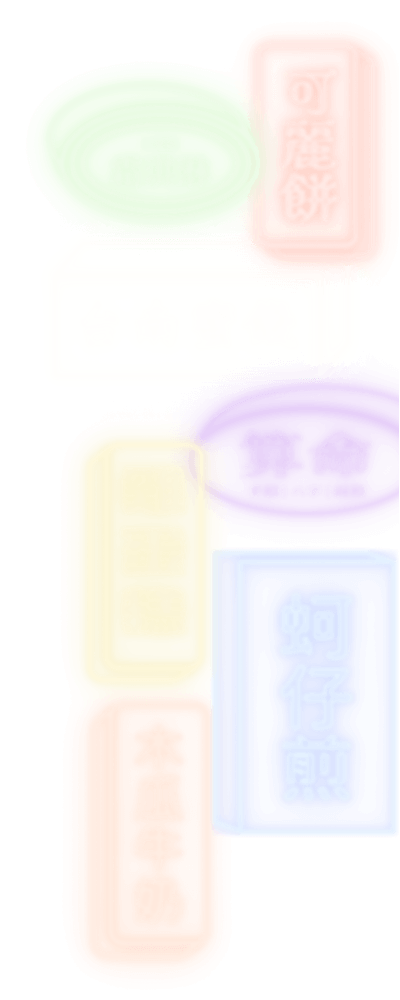
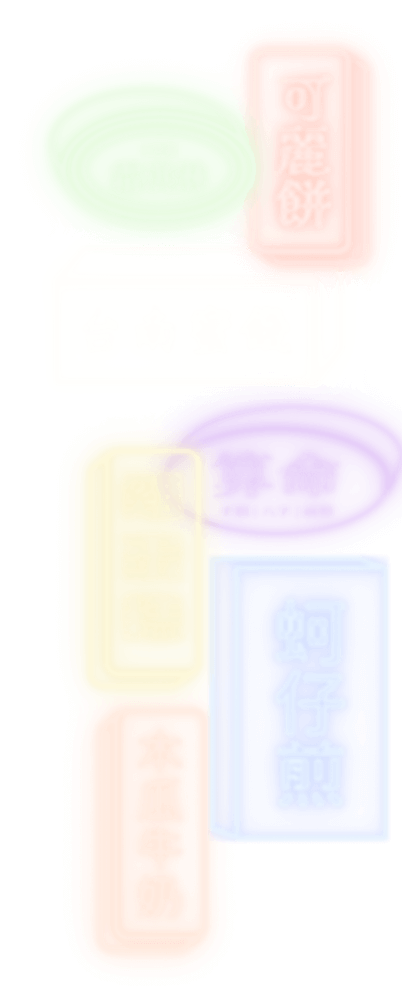
官方活動RWD製作中

diff --git a/css/style-amy.css b/css/style-amy.css
@@ -888,7 +888,7 @@
     right: 2%;
 }
 
-#current-events .swiper-btn-next:hover  {
+#current-events .swiper-btn-next:hover {
     animation: moveRightAndLeft 0.6s ease-in-out infinite;
 }
 
@@ -1128,7 +1128,7 @@
     left: 2%;
 }
 
-#upcoming-events .swiper-btn-pre:hover  {
+#upcoming-events .swiper-btn-pre:hover {
     animation: moveLeftAndRight 0.6s ease-in-out infinite;
 }
 
@@ -1136,7 +1136,7 @@
     right: 2%;
 }
 
-#upcoming-events .swiper-btn-next:hover  {
+#upcoming-events .swiper-btn-next:hover {
     animation: moveRightAndLeft 0.6s ease-in-out infinite;
 }
 
@@ -1274,33 +1274,81 @@
     overflow: hidden;
 }
 
-#officialEvent-introduce article {
-    position: relative;
-    padding: 2%;
-    margin-top: 25px;
-    margin-left: 20%;
-    width: 100%;
-    min-width: 1000px;
+#officialEvent-introduce {
+    margin-top: 50px;
 }
 
-#officialEvent-introduce article p {
-    position: absolute;
-    top: 2%;
-    width: 50%;
-    margin: 7%;
+#officialEvent-introduce .content {
+    background-image: url(../images/official/smoke.svg);
+    background-repeat: no-repeat;
+    background-size: contain;
+    background-position: center;
+
+    padding-top: 8%;
+    padding-left: 18%;
+
+    width: 100%;
+    aspect-ratio: 3/1;
+    min-width: 300px;
+}
+
+#officialEvent-introduce .content p {
+    width: 65%;
     text-align: center;
     letter-spacing: 0.1rem;
+}
+
+@media (max-width:1280px) {
+    #officialEvent-introduce .content {
+        background-position: right;
+
+        padding-top: 8%;
+        padding-left: 18%;
+
+        width: 100%;
+        aspect-ratio: 3/1;
+        min-width: 300px;
+    }
+
+    #officialEvent-introduce .content p {
+        width: 75%;
+    }
+}
+
+@media (max-width:860px) {
+    #officialEvent-introduce .content {
+        background-image: none;
+        padding-left: 22%;
+    }
+
+    #officialEvent-introduce .content p {
+        width: 70%;
+        text-align: left;
+    }
+}
+
+@media (max-width: 430px) {
+    #officialEvent-introduce .content {
+        background-image: none;
+        padding: 0;
+    }
+
+    #officialEvent-introduce .content p {
+        width: 80%;
+        margin: 0 auto;
+    }
 }
 
 /* 活動步驟 */
 #officialEvent-content {
     width: 50%;
-    margin-top: -20%;
+    margin-top: -3%;
 }
 
 #officialEvent-content .title {
     width: 40%;
-    margin: 0 auto 20px auto;
+    min-width: 250px;
+    margin: 0 auto 30px auto;
 }
 
 .steps ul {
@@ -1335,6 +1383,39 @@
     border: 2px solid var(--event-red);
 }
 
+@media (max-width:1440px) {
+    #officialEvent-content {
+        width: 55%;
+    }
+}
+
+@media (max-width:860px) {
+    #officialEvent-content {
+        width: 75%;
+        margin-top: -5%;
+    }
+
+    .steps ul li figure {
+        min-width: 300px;
+    }
+}
+
+@media (max-width: 430px) {
+    #officialEvent-content {
+        width: 80%;
+        margin-top: -6%;
+    }
+
+    .steps ul li {
+        flex-wrap: wrap;
+        gap: 20px;
+    }
+
+    .steps ul li .content {
+        margin-left: 0;
+    }
+}
+
 /* 活動步驟-列表線條 */
 .steps figure {
     position: relative;
@@ -1364,6 +1445,26 @@
     border-radius: 50%;
 }
 
+@media (max-width:860px) {
+    .steps figure::before {
+        content: '';
+        position: absolute;
+        top: 50%;
+        left: 112%;
+        height: 140%;
+        border-right: 2px solid var(--event-red);
+        margin: 0 auto;
+    }
+}
+
+@media (max-width: 430px) {
+
+    .steps figure::before,
+    .steps figure::after {
+        display: none;
+    }
+}
+
 /* 活動指定目標 */
 #officialEvent-target {
     display: flex;
@@ -1374,8 +1475,15 @@
     margin-top: 12%;
 }
 
+#officialEvent-target .title {
+    width: 25%;
+    min-width: 250px;
+}
+
 #officialEvent-target p {
+    font-size: 1.2rem;
     line-height: 2rem;
+    margin-bottom: 10px;
 }
 
 #officialEvent-target ul {
@@ -1393,6 +1501,24 @@
     margin: 0 5px;
 }
 
+
+@media (max-width: 430px) {
+    #officialEvent-target ul {
+        width: 80%;
+    }
+
+    #officialEvent-target ul li {
+        flex-wrap: wrap;
+        justify-content: flex-start;
+        margin-bottom: 10px;
+    }
+
+    #officialEvent-target p {
+        font-size: 12px;
+        line-height: 1.5rem;
+    }
+}
+
 /* 加入活動 */
 #officialEvent-join {
     position: relative;
@@ -1402,8 +1528,8 @@
     justify-content: center;
     align-items: center;
 
-    width: 100%;
-    height: 150vh;
+    width: 80%;
+    aspect-ratio: 1/1;
 
     background-image: url(../images/official/bowl.png);
     background-repeat: no-repeat;
@@ -1434,26 +1560,35 @@
     background-color: aliceblue;
 }
 
+@media (max-width:860px) {
+    #officialEvent-join {
+        width: 150%;
+    }
+}
+
 /* 左右兩側招牌裝飾 */
-.shop-sign-left {
+.shop-sign-left,
+.shop-sign-right {
     position: absolute;
     top: 360px;
-    width: 400px;
-    height: 1000px;
-    background-image: url(../images/official/shop-sign-left.png);
+
+    width: 20%;
+    min-width: 150px;
+    aspect-ratio: 7/18;
+
     background-size: contain;
     background-repeat: no-repeat;
 }
 
+.shop-sign-left {
+    background-image: url(../images/official/shop-sign-left.png);
+    background-position: left;
+}
+
 .shop-sign-right {
-    position: absolute;
-    top: 360px;
     right: 0;
-    width: 400px;
-    height: 1000px;
+
     background-image: url(../images/official/shop-sign-right.png);
-    background-size: contain;
-    background-repeat: no-repeat;
     background-position: right;
 }
 

diff --git a/officialEvent.html b/officialEvent.html
@@ -13,17 +13,17 @@
 <body id="officialEvent-body">
     <main id="officialEvent">
         <section id="officialEvent-banner">
-            <figure class="banner">
+            <picture class="banner">
+                <source media="(max-width: 860px)" srcset="./images/official/banner-820.png" />
                 <img src="./images/official/banner.png" alt="台北夜市美食地圖">
-            </figure>
+            </picture>
             <div class="shop-sign-left"></div>
             <div class="shop-sign-right"></div>
         </section>
         <section id="officialEvent-introduce">
-            <article>
-                <img src="./images/official/smoke.png" alt="">
+            <div class="content">
                 <p>親愛的美食愛好者們，8月的精彩活動不容錯過！我們邀請你們參加我們為期一個月的台北夜市美食地圖集點活動，來一場味蕾的冒險吧！</p>
-            </article>
+            </div>
         </section>
         <section id="officialEvent-content">
             <figure class="title">
@@ -60,12 +60,12 @@
                 <li>
                     <p>鹽酥雞</p>
                     <img src="./images/official/star.png" alt="">
-                    <p>台灣經典的小吃，外酥內嫩的炸雞塊。</p>
+                    <p>外酥內嫩的炸雞塊，加上香料與九層塔，美味無比。</p>
                 </li>
                 <li>
                     <p>大腸包小腸</p>
                     <img src="./images/official/star.png" alt="">
-                    <p>台灣獨特的街頭小吃，將香腸包在米腸內，口感豐富。</p>
+                    <p>台灣獨特的小吃，將香腸包在米腸內，口感豐富。</p>
                 </li>
                 <li>
                     <p>蚵仔煎</p>
@@ -75,12 +75,12 @@
                 <li>
                     <p>珍珠奶茶</p>
                     <img src="./images/official/star.png" alt="">
-                    <p>混合了紅茶、牛奶和珍珠的甜飲，是夜市必試的飲品。</p>
+                    <p>混合了紅茶、牛奶和珍珠，是夜市必試的飲品。</p>
                 </li>
                 <li>
                     <p>臭豆腐</p>
                     <img src="./images/official/star.png" alt="">
-                    <p>獨特的發酵豆腐，外脆內嫩，搭配酸菜更美味。</p>
+                    <p>獨特的發酵豆腐，外脆內嫩，搭配酸菜更加美味。</p>
                 </li>
             </ul>
         </section>

diff --git a/js/ShopSignMoving.js b/js/ShopSignMoving.js
@@ -29,11 +29,17 @@ function updatePositionByDistance() {
 
     var verticalDistance = shopSignRect.top - bannerRect.bottom;
 
+    let top = 400 * (window.innerWidth / 1980);
+    //根據平板 banner 高度進行補正
+    if (window.innerWidth <= 860) {
+        top += 220;
+    }
+
     if (verticalDistance < -15) {
         shopSignLeft.style.position = 'absolute';
-        shopSignLeft.style.top = `${400 * (window.innerWidth / 1980)}px`;
+        shopSignLeft.style.top = `${top}px`;
 
         shopSignRight.style.position = 'absolute';
-        shopSignRight.style.top = `${400 * (window.innerWidth / 1980)}px`;
+        shopSignRight.style.top = `${top}px`;
     }
 }
